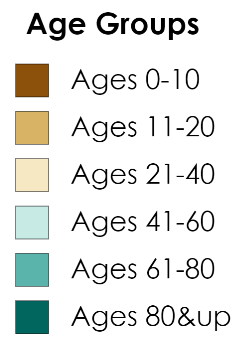
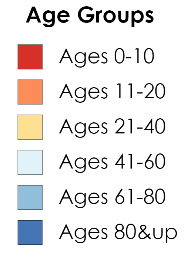
Add files via upload

diff --git a/documentation.html b/documentation.html
@@ -1,0 +1,55 @@
+<html>
+	<head>
+		<link rel="stylesheet" href="style.css"/>
+	</head>
+    <body>
+        <h1>Project 1 Documentation &nbsp; &nbsp; <a href="index.html">Retrun to visualization</a> <br><a href="https://www.youtube.com/">Youtube Video</a></h1>
+        <h2>Design Process</h2>
+        <p>To start with this project I needed to look at the original map and past information about the 1854 Broad Street cholera outbreak to get an idea for what I would be visualizing. Then I looked at the data to see what infroamton I could decipeher from it. I knew that I needed to dsiplay the gender and age groups so I focused on identifying those variables. I also needed to see the distributuion of deaths over the time period of the outbreak. </p>
+        <img id="snow"src="img/snow.PNG" alt="Jon Snow Map" >
+		<caption><i>A look at the original map </i></caption>
+		<p>I used excel to check the visualizations and satitics quickly then I used d3 to visualize the data. To draw out and recreate the map I couldnt get the d3.json function to work correctly so I convereted the points and used them within the index file as an array. I used some add ons to get all the visualizations to work. Some links were used to help zoom and move around the map as well as the cluster function. </p>
+		<img class="otherImg" src="img/beginning.PNG" alt="Quick visualizations done in excel"> <caption><i>Quick visualizations done in excel</i></caption>
+		<h3>Ended up with -</h3>
+		<ul>
+            <li>A map with each death plotted that shows age and gender that cna be clustered</li>
+            <li>A pie chart for the gender percentage</li>
+			<li>A pie chart for the age percentages</li>
+			<li>A line chart that displays the distributions of deaths overtime</li>
+        </ul>
+        <h3>Design Points</h3>
+        <ol>
+            <li><u>Color:</u> With all of the charts I had to redue the color a few times. Soemtimes the colors just didnt show up correclty and other times the color swere too similar between graphs. I wanted to make sure there was no confusion on what you wre seeing. I also had to make sure that all the colors used were color blind safe. I did this will the help of color brewer2. This shows some of the variation and change in colors that I went through. </li>
+		  	<img class="color" src="img/capture 4.PNG" alt="Pie chart colors 1" >
+			<img class="color" src="img/Capture.PNG" alt="Pie chart colors 2" >
+			<img class="color" src="img/capture 3.PNG" alt="Pie chart colors final">
+			<caption><i>Color Changes in pie charts</i></caption>
+			
+            <li><u>Layout:</u> The layout of the page became a problem throughout the design of the document. I had probvlems with making sure charts were big enough and wouldnt interact with the other charts on accident. I had trouble witht he coding to ensure divs and objects wouldnt move around the page and block each otehr. Eventually i figured it out and got the page layout how I wanted it. The page treats the user to some of the overall saticists first and then allows them to look at the map and interact with it after. </li>
+			
+			<li><u>Add-ons: </u> To complete this visualization correctly I had to enlist the help of some add-ons. I used these to add fucntinality to the overall design and to create the visualizations. D3 created the visualizations while other add ons like mapbox and leaflet helped witht he createion of the map and the interativeness of the map.</li>
+        </ol>
+        <img class="otherImg" src="img/capture 2.PNG" alt="Map created with add ons, shows the loaction of deaths">
+        <caption ><i>Map created with add ons, shows the loaction of deaths</i></caption>
+        <h3>Answers</h3>
+        <p>These data visualizations can be used to answer many questions that soemone may have about this outbreak. You can easily see where the majoprity of deaths are happening. YOu can see the widespeard affect it has on the differnt age groups and who is affected the most. Youc an also tell that it doesnt discrimate on gender. If researching this subject you can also see from the line chart the days where the most people were reported dead.</p>
+        <h3>Helpful sites</h3>
+        <ul>
+            <li><a href="https://d3js.org/">D3</a></li>
+			
+			<li><a href="https://leafletjs.com">Leaflet</a></li>
+			
+            <li><a href="https://www.mapbox.com/?utm_medium=sem&utm_source=google&utm_campaign=sem|google|brand|chko-googlesearch-pr01-mapboxbrand-br.exact-us-landingpage-search&utm_term=brand&utm_content=chko-googlesearch-pr01-mapboxbrand-br.exact-us-landingpage-search&gclid=CjwKCAjw5_DsBRBPEiwAIEDRW1Cue_YRMKNAvTNrR0LXowg1nGst2Sg3hS85iKf7hKYr41gxyHrweBoCAqMQAvD_BwE">MapBox</a></li>
+			
+			<li><a href="http://colorbrewer2.org">Color Brewer 2</a></li>
+			
+			<li><a href="https://www.wired.com/2009/09/0908london-cholera-pump/">Sept. 8, 1854: Pump Shutdown Stops London Cholera Outbreak </a></li>
+			
+			<li><a href="https://www.w3schools.com">W3 schools</a></li>
+        </ul>
+		<h2>YouTube Presentation</h2>
+        <iframe width="700" height="400"
+				src="https://www.youtube.com/embed/tgbNymZ7vqY">
+		</iframe>
+    </body>
+</html>

diff --git a/style.css b/style.css
@@ -1,51 +1,62 @@
-            body {
-				background-color:orange;
-            }
-                path.maleColor {
-                    fill: rgb(239, 138, 98);
-                    fill-opacity: .8;
-                }
-                path.femaleColor {
-                    fill: rgb(103, 169, 207);
-                    fill-opacity: .8;
-                }
-                  path.ageGroup0 {
-                    fill: rgb(140, 81, 10);
-                    fill-opacity: .8;
-                }
-                path.ageGroup1 {
-                    fill: rgb(216, 179, 101);
-                    fill-opacity: .8;
-                }
-                  path.ageGroup2 {
-                    fill: rgb(246, 232, 195);
-                    fill-opacity: .8;
-                }
-                path.ageGroup3 {
-                    fill: 	rgb(199,234,229);
-                    fill-opacity: .8;
-                }
-                  path.ageGroup4 {
-                    fill: rgb(90, 180, 172);
-                    fill-opacity: .8;
-                }
-                path.ageGroup5 {
-                    fill: rgb(1, 102, 94);
-                    fill-opacity: .8;
-                }
-
+			body {
+			background-color:orange;
+			}
+			path.maleColor {
+				fill: rgb(179,88,6);
+				fill-opacity: .9;
+			}
+			path.femaleColor {
+				fill: rgb(84,39,136);
+				fill-opacity: .9;
+			}
+			  path.ageGroup0 {
+				fill: rgb(215,48,39);
+				fill-opacity: .9;
+			}
+			path.ageGroup1 {
+				fill: rgb(252,141,89);
+				fill-opacity: .9;
+			}
+			  path.ageGroup2 {
+				fill: rgb(254,224,144);
+				fill-opacity: .9;
+			}
+			path.ageGroup3 {
+				fill: 	rgb(224,243,248);
+				fill-opacity: .9;
+			}
+			  path.ageGroup4 {
+				fill: rgb(145,191,219);
+				fill-opacity: .9;
+			}
+			path.ageGroup5 {
+				fill: rgb(69,117,180);
+				fill-opacity: .9;
+			}
             h1 {
                 color: black;
                 font-weight: bold;
                 font-size: 35px;
             }
+			.color{
+				width:400px;
+				height:200px;
+			}
+			.otherImg{
+				width:400px;
+				height: 300px;
+			}
+			#snow{
+				width:700px; 
+				height:300px;
+			}
 			#completeMap{
 				position:relative;
 			}
             #map {
                 height: 900px;
                 width: 1100px;
-                background-color: lightgray;
+                background-color: lightgrey;
 				border: 5px;
 				border-style: solid;
 				border-color: black;

diff --git a/index.html b/index.html
@@ -27,7 +27,7 @@
     </head>
     <body>
         <div id="charts">
-            <h1>Jon Snow Recreation &nbsp; &nbsp; &nbsp; Documentation <a href="">click here</a> </h1>
+            <h1>Jon Snow Viz Recreation by Luke Anderson &nbsp; &nbsp; &nbsp;  <a href="documentation.html">Project 1 Documentation</a> &nbsp; &nbsp;  <a href="https://www.youtube.com/">Youtube Video</a> </h1>
                 <div id="lineChart" ><p>Deaths overtime </p></div>
                 <br/>
                 <div id="genderPie" class="chart-box"  ><p>Deaths by Gender </p><img id="genderImg" src='img/genderLegend.png' /></div>
@@ -178,7 +178,7 @@
                             .innerRadius(0)
                             .outerRadius(radius);
                         var color = d3.scale.ordinal()
-                        .range(['#ef8a62', '#67a9cf']);
+                        .range(['#b35806', '#542788']);
                         var svg = d3.select("#genderPie")
                             .append("svg")
                             .attr({
@@ -248,7 +248,7 @@
                             .innerRadius(0)
                             .outerRadius(radius);
                         var color = d3.scale.ordinal()
-                            .range([ rgbToHex(1, 102, 94), rgbToHex(246, 232, 195), rgbToHex(199,234,229), rgbToHex(216, 179, 101),  rgbToHex(140, 81, 10), rgbToHex(90, 180, 172) ]);
+                            .range([ rgbToHex(252,141,89), rgbToHex(254,224,144), rgbToHex(224,243,248), rgbToHex(69,117,180),  rgbToHex(215,48,39), rgbToHex(145,191,219) ]);
                         var svg = d3.select("#agePie")
                             .append("svg")
                             .attr({
